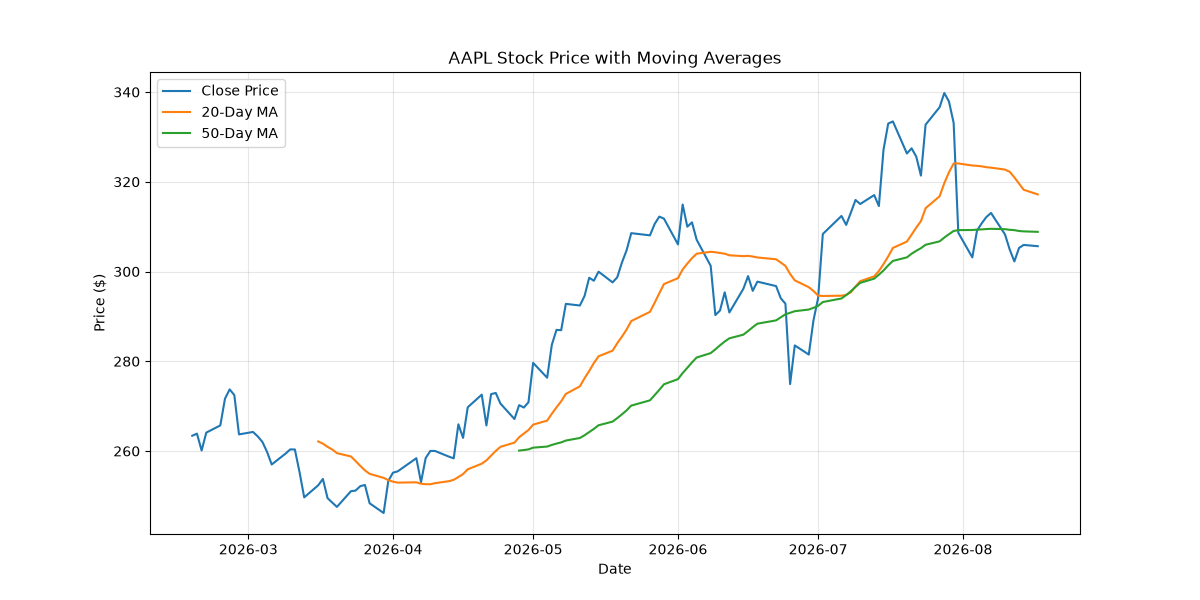
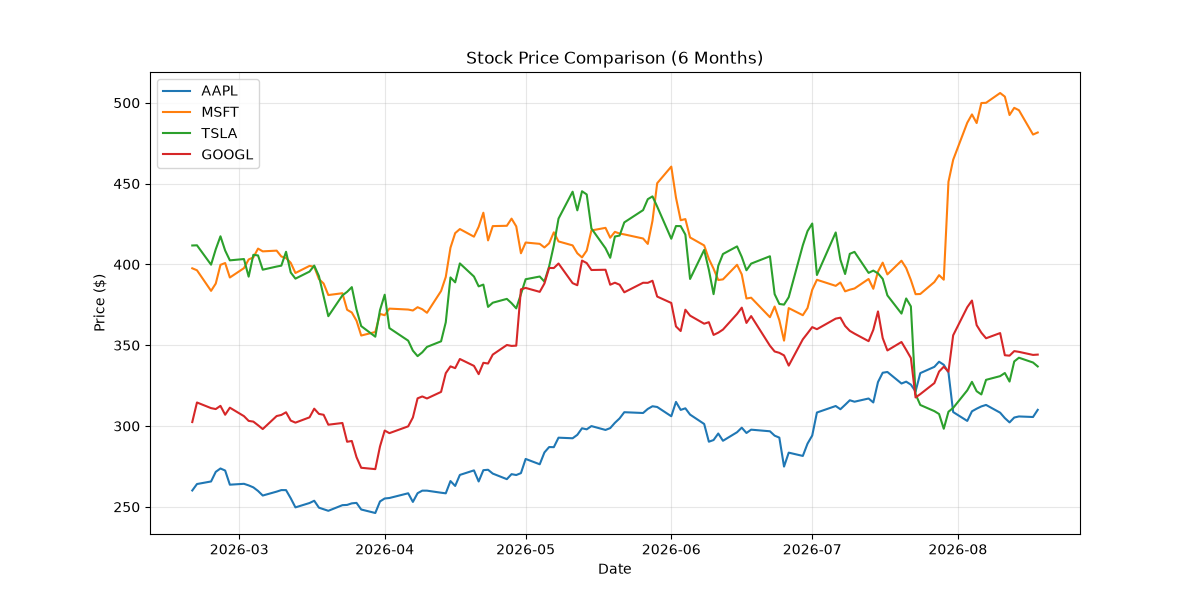
Add multi-stock chart visualization

diff --git a/stock_analyzer.py b/stock_analyzer.py
@@ -20,6 +20,20 @@ def backtest_crossover_strategy(data):
     buy_hold_total_return = (1 + data["Daily Return"]).prod() - 1
     return strategy_total_return * 100, buy_hold_total_return * 100
 
+def plot_stock_prices(all_data):
+    """Plot closing prices for all stocks on one chart for comparison."""
+    plt.figure(figsize=(12, 6))
+    for ticker, data in all_data.items():
+        plt.plot(data.index, data["Close"], label=ticker, linewidth=1.5)
+
+    plt.title("Stock Price Comparison (6 Months)")
+    plt.xlabel("Date")
+    plt.ylabel("Price ($)")
+    plt.legend()
+    plt.grid(True, alpha=0.3)
+    plt.savefig("stock_chart.png")
+    plt.show()
+
 def store_data_in_db(all_data, db_name="stock_data.db"):
     """Store all stocks' price data into a SQLite database."""
     conn = sqlite3.connect(db_name)
@@ -102,3 +116,6 @@ store_data_in_db(all_data)
 print("\n--- SQL Query: Average Closing Price by Ticker ---")
 for ticker, avg_close in query_average_close():
     print(f"{ticker}: ${avg_close:.2f}")
+
+# Plot all stocks for visual comparison
+plot_stock_prices(all_data)
